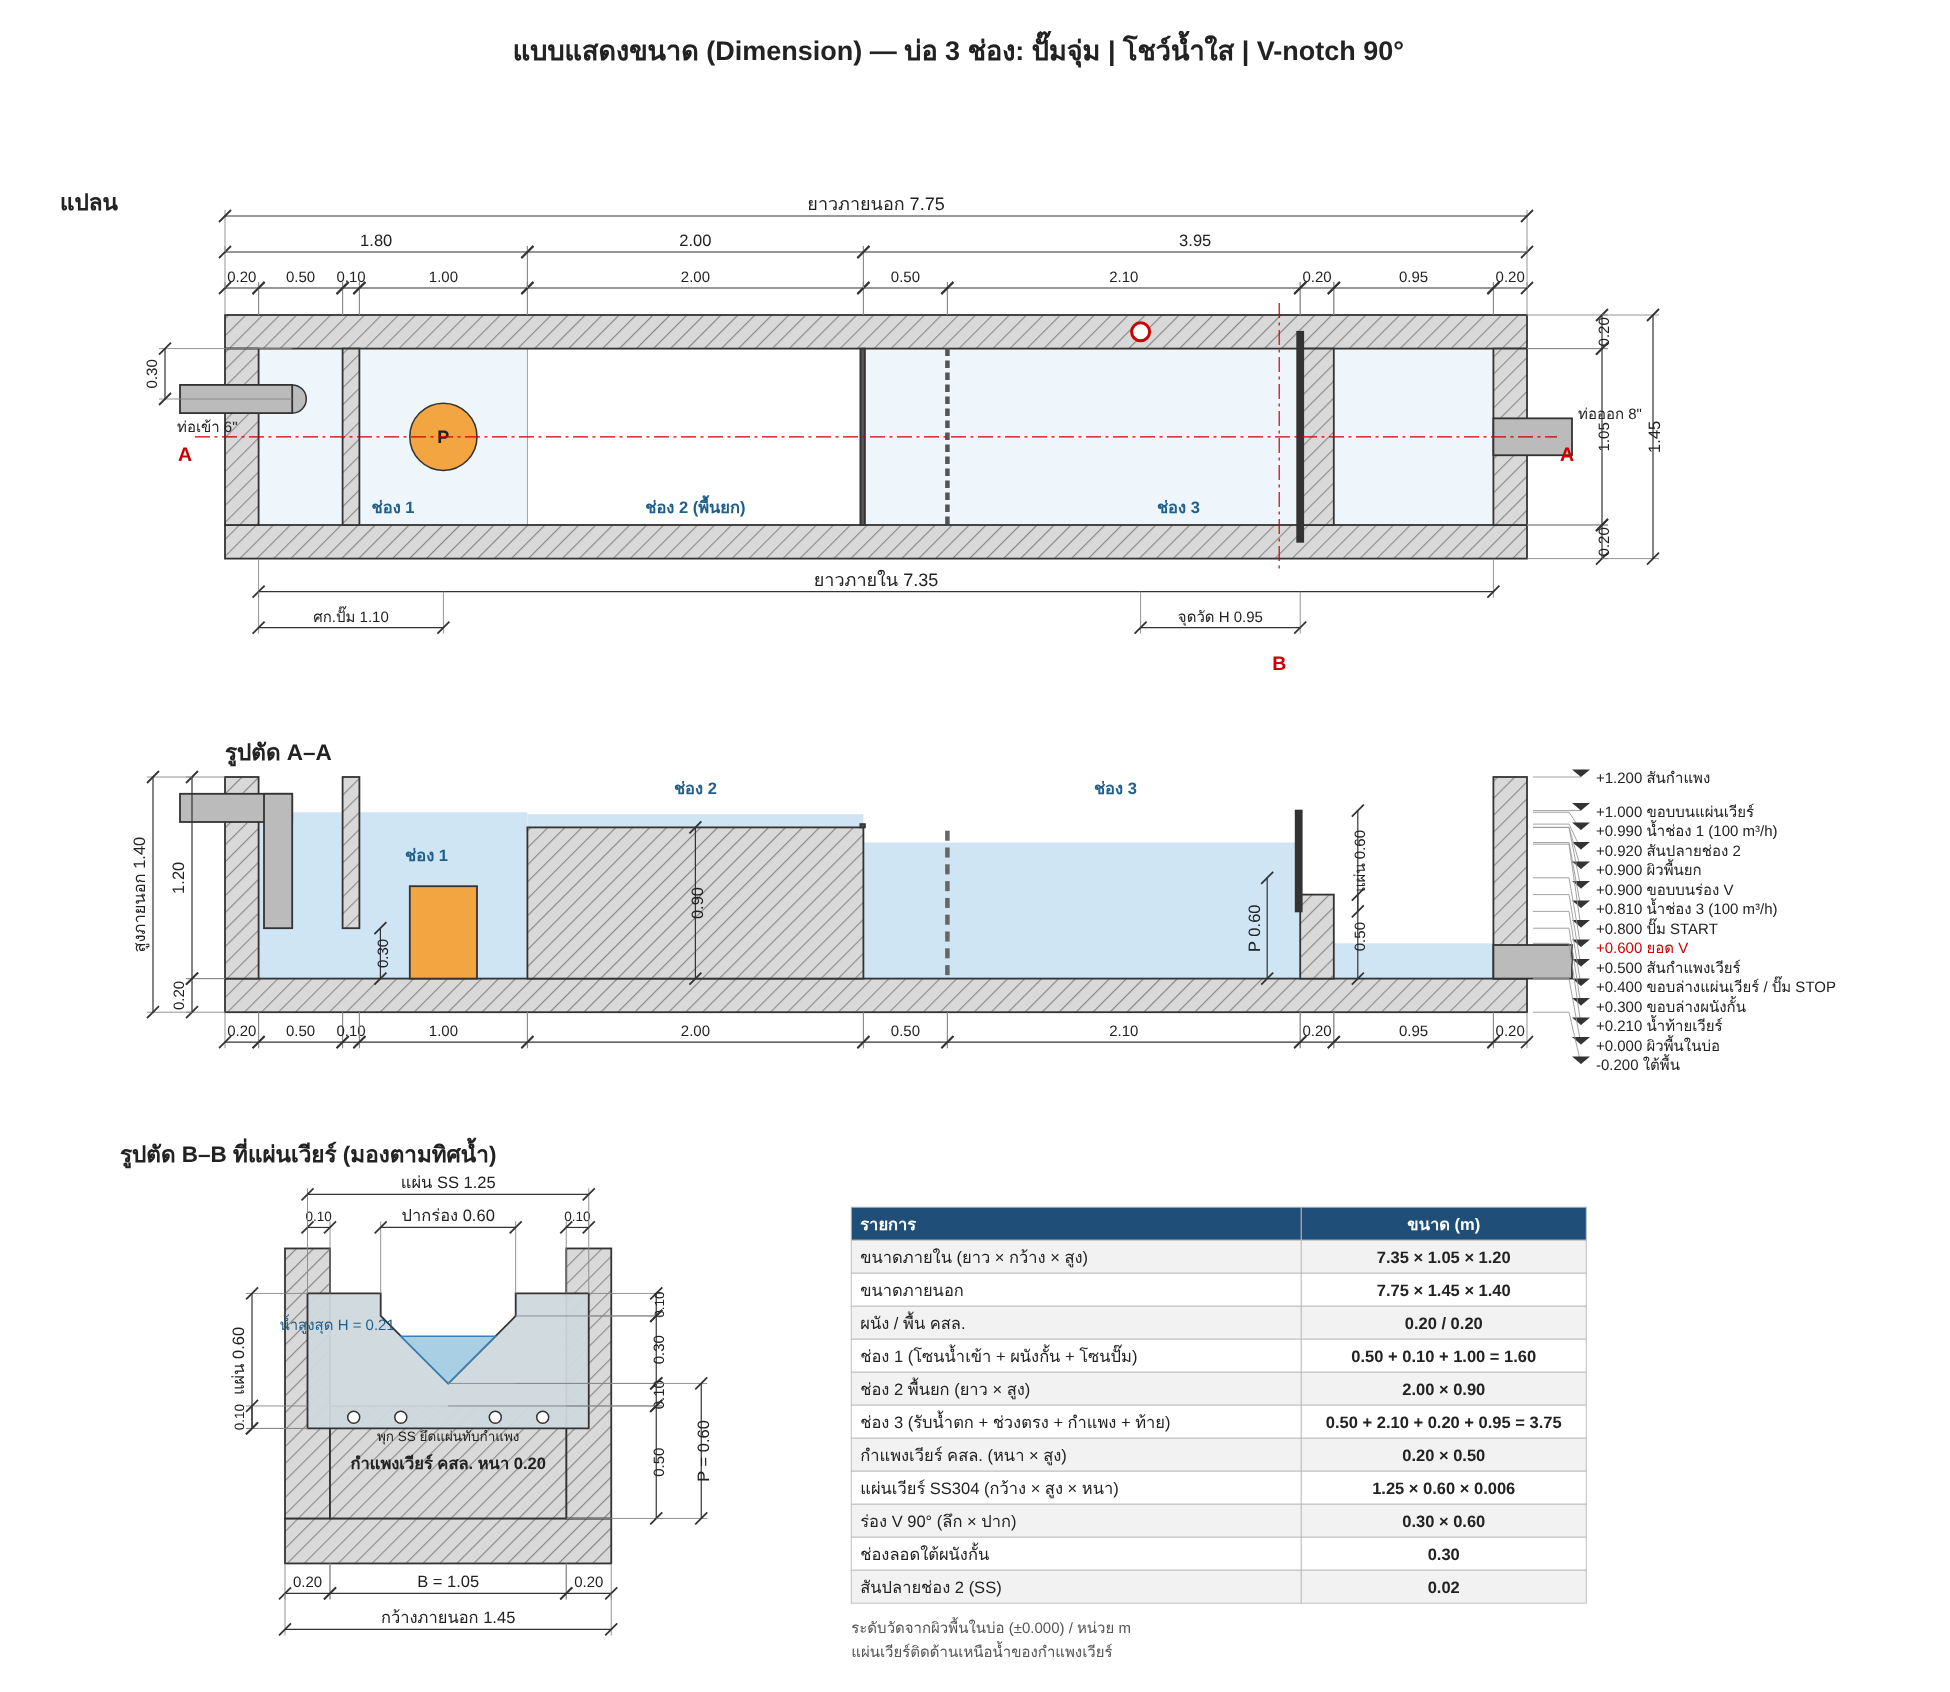
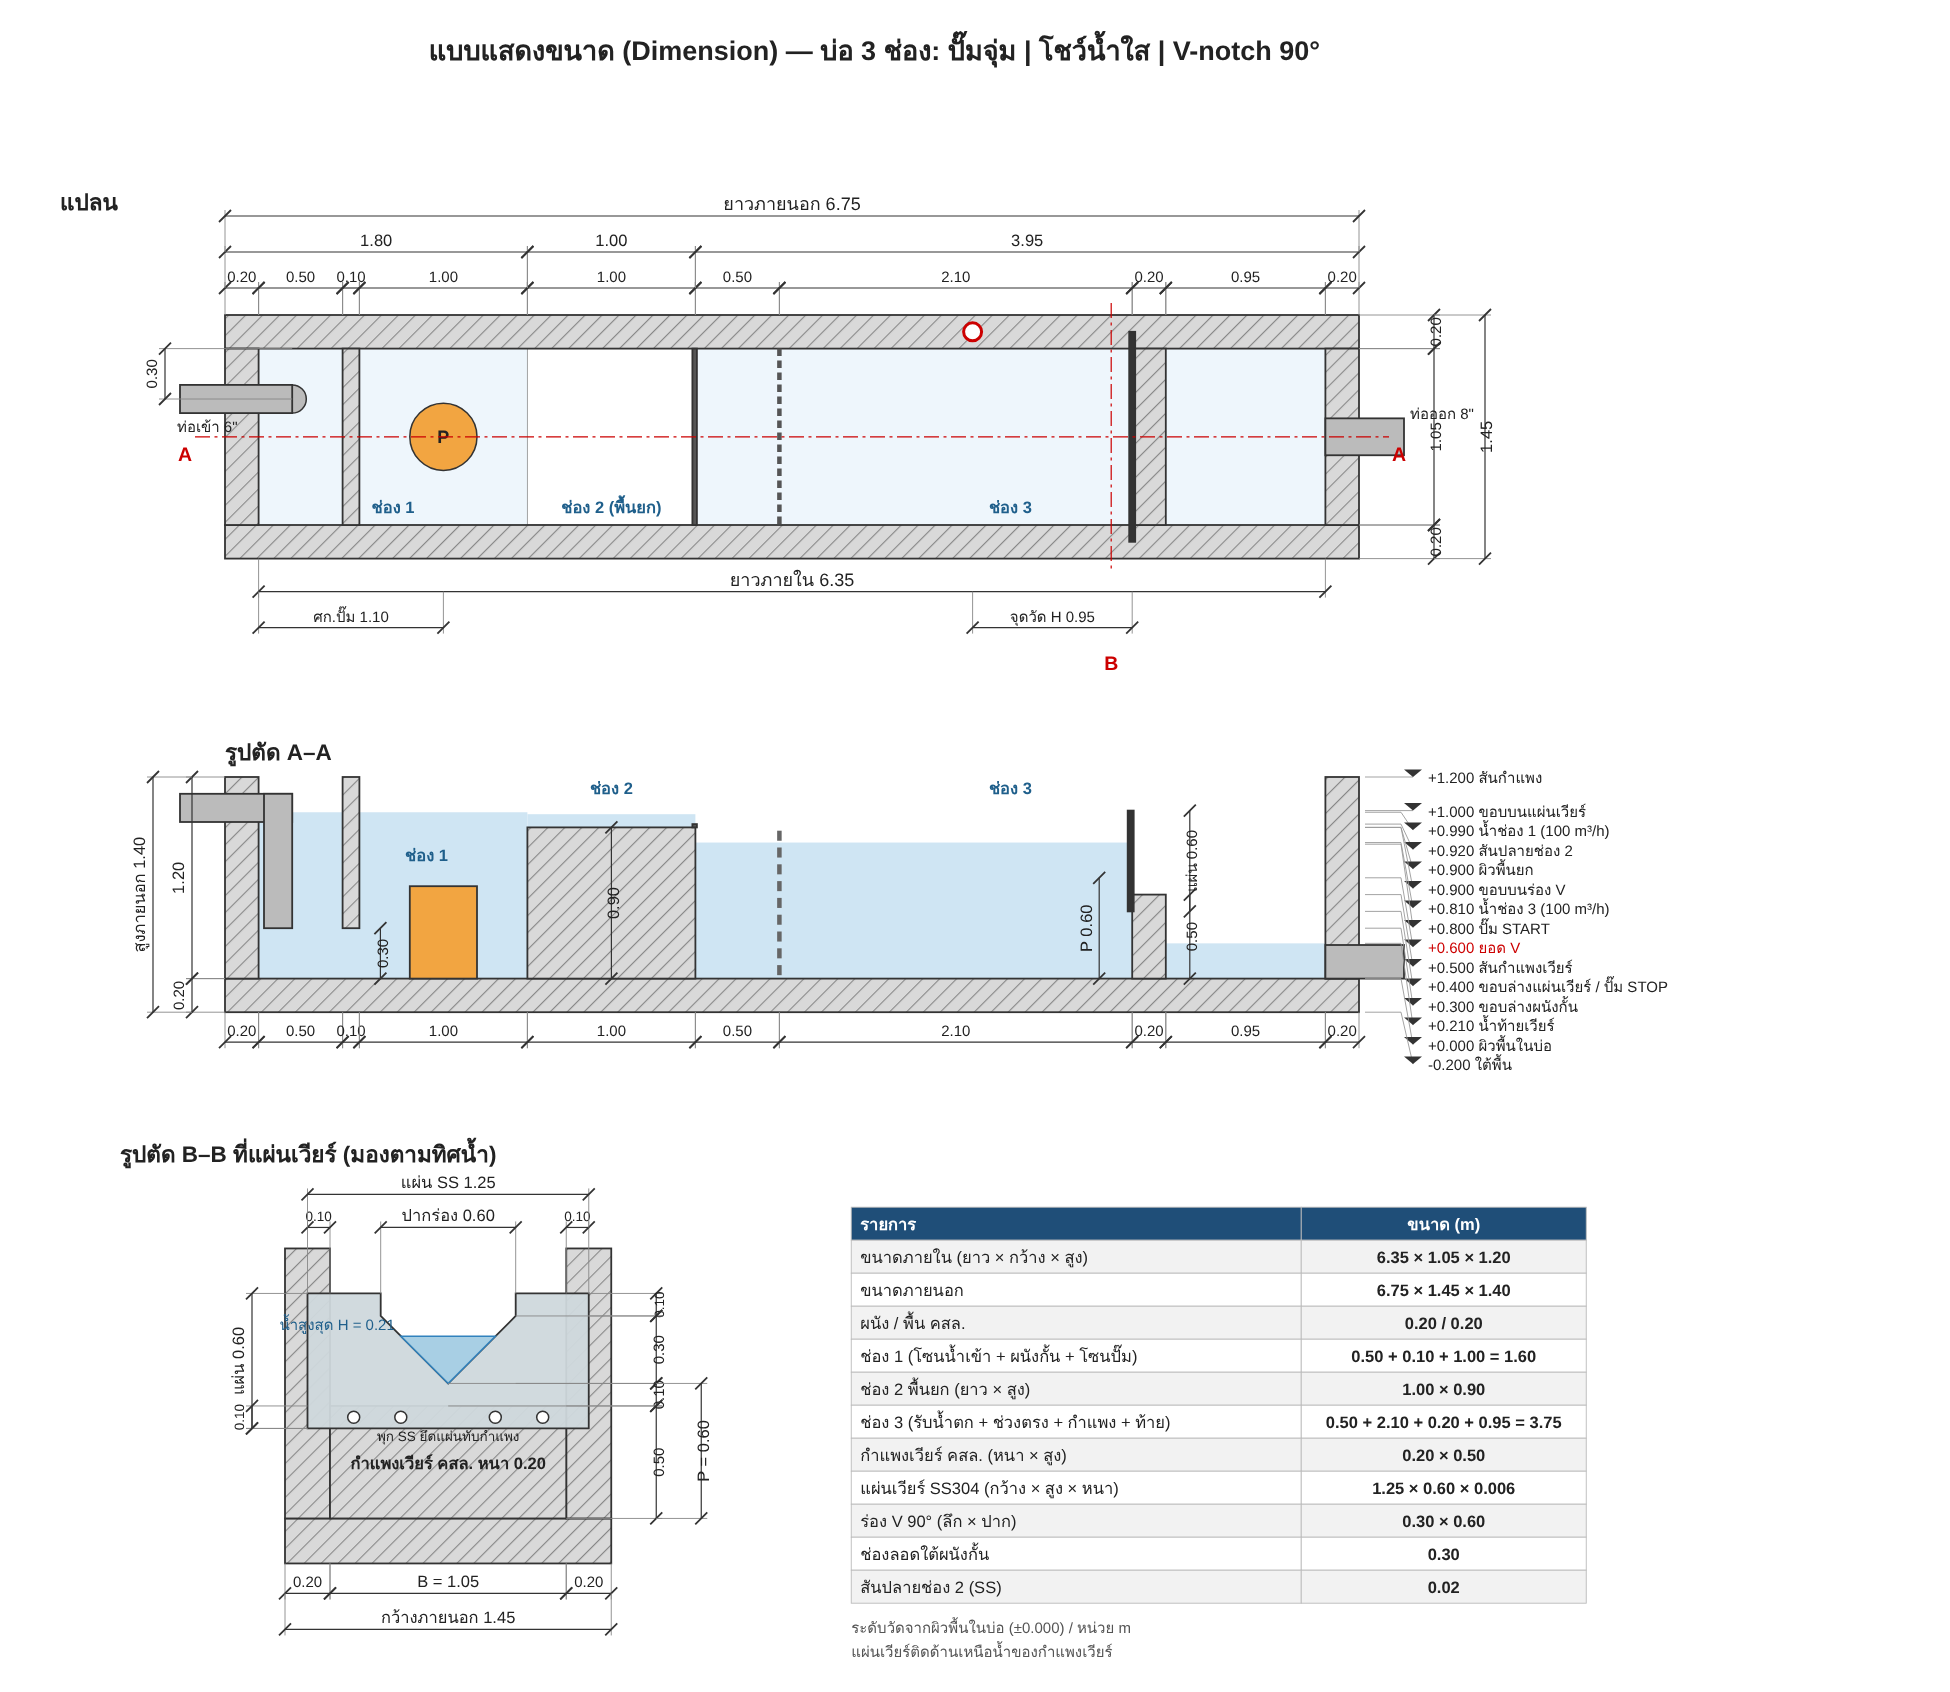
Shorten clear-water section to 1.00 m (tank 6.75 m external)
Claude-Session: https://claude.ai/code/session_01PXLmoKkgGBxM2QbbegGKn7

diff --git a/make_drawings.py b/make_drawings.py
@@ -16,15 +16,16 @@ X_BAFFLE = 0.50         # ผนังกั้นลอดใต้ หนา 0
 X_PUMP = 1.10
 X_C1_END = 1.60
 # ช่อง 2
-X_C2_END = 3.60         # ปลายพื้นยก + สันปลาย
+X_C2_END = X_C1_END + 1.00  # ปลายพื้นยก + สันปลาย (ช่อง 2 ยาว 1.00)
+X_C2_MID = (X_C1_END + X_C2_END) / 2
 Z_RAISED = 0.90
 SILL = 0.02
 # ช่อง 3
-X_PERF = 4.10           # แผ่นกันคลื่นรูพรุน
-X_WEIR = 6.20           # ผิวเหนือน้ำของกำแพงเวียร์ (ช่วงตรง 2.10)
+X_PERF = X_C2_END + 0.50  # แผ่นกันคลื่นรูพรุน (โซนรับน้ำตก 0.50)
+X_WEIR = X_PERF + 2.10  # ผิวเหนือน้ำของกำแพงเวียร์ (ช่วงตรง 2.10)
 T_WW = 0.20             # กำแพงเวียร์ คสล.
 X_TAP = X_WEIR - 0.95
-X_END = 7.35             # ท้ายเวียร์ 0.95
+X_END = X_WEIR + T_WW + 0.95  # ท้ายเวียร์ 0.95
 Z_VERTEX = 0.60
 Z_NOTCH_TOP = 0.90
 Z_WALL_TOP = 1.20
@@ -136,11 +137,11 @@ def section():
     # elevations
     for z, name, c in [(Z_WALL_TOP, "สันกำแพง", "#333"), (Z_NOTCH_TOP, "ขอบบนร่อง V", "#333"),
                        (Z_MAX, "น้ำสูงสุด", "#1f5f8b"), (Z_VERTEX, "ยอด V (h = 0)", "#c00")]:
-        b.append(line(X(4.25), Y(z), X(X_WEIR) - 4, Y(z), c, 0.8, "3 2"))
+        b.append(line(X(X_PERF + 0.15), Y(z), X(X_WEIR) - 4, Y(z), c, 0.8, "3 2"))
         b.append(text(X(X_TAP) - 6, Y(z) + (11 if z == Z_MAX else -3), f"{name} {z:+.3f}", 11, "end", c))
-    b.append(text(X(2.6), Y(Z_RAISED) + 18, f"ผิวพื้นยก {Z_RAISED:+.2f}", 11, "middle"))
-    b.append(text(X(2.6), Y(Z_C2) - 6, "ชั้นน้ำใส 5–7 cm", 12, "middle", "#1f5f8b", "bold"))
-    b.append(text(X(X_C2_END) - 6, Y(Z_RAISED + SILL) - 22, f"สันปลาย {SILL*100:.0f} cm", 10, "end"))
+    b.append(text(X(X_C2_MID), Y(Z_RAISED) + 18, f"ผิวพื้นยก {Z_RAISED:+.2f}", 11, "middle"))
+    b.append(text(X(X_C2_MID), Y(Z_C2) - 24, "ชั้นน้ำใส 5–8 cm", 12, "middle", "#1f5f8b", "bold"))
+    b.append(text(X(X_C2_END) - 6, Y(Z_RAISED) + 34, f"สันปลาย {SILL*100:.0f} cm", 10, "end"))
     b.append(text(X(0.95), Y(Z_C1) - 5, f"น้ำ {Z_C1:+.2f}", 11, "middle", "#1f5f8b"))
     b.append(text(X(X_END) - 4, Y(Z_TAIL) - 4, f"น้ำท้าย ≈ {Z_TAIL:+.2f}", 11, "end", "#1f5f8b"))
     xv = X(X_WEIR) - 14
@@ -196,10 +197,10 @@ def plan():
     b.append(text(X(X_TAP) + 10, Y(0.15) + 4, "จุดวัด h", 11, color="#c00"))
     b.append(rect(X(X_END), Y(B / 2) - D_OUT * S / 2, WALL * S + 40, D_OUT * S, fill="#bbb"))
     b.append(text(X(X_END + WALL) + 42, Y(B / 2) + 4, "ท่อออก 8\"", 12))
-    for x in (0.15, 2.0, 2.9, 4.6, 5.6, 6.6):
+    for x in (0.15, X_C2_MID - 0.15, X_PERF + 0.5, X_PERF + 1.4, X_WEIR + 0.4):
         b.append(flow_arrow(X(x), Y(0.95)))
-    b.append(text(X(2.6), Y(0.28), "พื้นยก +0.90 กรุกระเบื้องขาว", 12, "middle", "#1f5f8b", "bold"))
-    b.append(text(X(2.6), Y(0.28) + 16, "ชั้นน้ำใส 5–7 cm", 12, "middle", "#1f5f8b"))
+    b.append(text(X(X_C2_MID), Y(0.28), "พื้นยก +0.90 กรุกระเบื้องขาว", 12, "middle", "#1f5f8b", "bold"))
+    b.append(text(X(X_C2_MID), Y(0.28) + 16, "ชั้นน้ำใส 5–8 cm", 12, "middle", "#1f5f8b"))
     ya = Y(B / 2)
     b.append(line(X(-WALL) - 20, ya, X(X_END + WALL) + 20, ya, "#c00", 1, "12 4 2 4"))
     b.append(text(X(-WALL) - 22, ya + 18, "A", 14, "end", "#c00", "bold"))
@@ -341,7 +342,7 @@ def dimensions():
     yt = Y(-WALL)
     for i in range(len(xs) - 1):
         hdim(b, X(xs[i]), X(xs[i + 1]), yt - 18, f"{xs[i+1]-xs[i]:.2f}", ext=yt, size=10)
-    for x1, x2, t in [(-WALL, X_C1_END, "1.80"), (X_C1_END, X_C2_END, "2.00"), (X_C2_END, X_END + WALL, "3.95")]:
+    for x1, x2, t in [(-WALL, X_C1_END, f"{X_C1_END + WALL:.2f}"), (X_C1_END, X_C2_END, f"{X_C2_END - X_C1_END:.2f}"), (X_C2_END, X_END + WALL, f"{X_END + WALL - X_C2_END:.2f}")]:
         hdim(b, X(x1), X(x2), yt - 42, t, ext=yt - 18)
     hdim(b, X(-WALL), X(X_END + WALL), yt - 66, f"ยาวภายนอก {X_END + 2*WALL:.2f}", ext=yt - 42, size=12)
     # ด้านล่าง: ภายใน + ตำแหน่งท่อ/ปั๊ม/จุดวัด
@@ -405,7 +406,7 @@ def dimensions():
     vdim(b, Z(0), Z(-TS), X(-WALL) - 22, "0.20", ext=X(-WALL), size=10)
     vdim(b, Z(Z_WALL_TOP), Z(-TS), X(-WALL) - 48, f"สูงภายนอก {Z_WALL_TOP + TS:.2f}", ext=X(-WALL) - 22)
     vdim(b, Z(Z_GAP), Z(0), X(X_BAFFLE + 0.10) + 14, f"{Z_GAP:.2f}", side=1, size=10)
-    vdim(b, Z(Z_RAISED), Z(0), X(2.6), f"{Z_RAISED:.2f}", side=1)
+    vdim(b, Z(Z_RAISED), Z(0), X(X_C2_MID), f"{Z_RAISED:.2f}", side=1)
     vdim(b, Z(Z_VERTEX), Z(0), X(X_WEIR) - 22, f"P {Z_VERTEX:.2f}")
     vdim(b, Z(Z_WW), Z(0), X(X_WEIR + T_WW) + 16, f"{Z_WW:.2f}", side=1, size=10)
     vdim(b, Z(Z_NOTCH_TOP + 0.10), Z(Z_PB), X(X_WEIR + T_WW) + 16, f"แผ่น {Z_NOTCH_TOP + 0.10 - Z_PB:.2f}", side=1, size=10)
@@ -414,8 +415,8 @@ def dimensions():
     for i in range(len(xs) - 1):
         hdim(b, X(xs[i]), X(xs[i + 1]), yb2 + 20, f"{xs[i+1]-xs[i]:.2f}", ext=yb2, size=10)
     b.append(text(X(1.0), Z(0.70), "ช่อง 1", 11, "middle", "#1f5f8b", "bold"))
-    b.append(text(X(2.6), Z(1.10), "ช่อง 2", 11, "middle", "#1f5f8b", "bold"))
-    b.append(text(X(5.1), Z(1.10), "ช่อง 3", 11, "middle", "#1f5f8b", "bold"))
+    b.append(text(X(X_C2_MID), Z(1.10), "ช่อง 2", 11, "middle", "#1f5f8b", "bold"))
+    b.append(text(X((X_C2_END + X_END) / 2), Z(1.10), "ช่อง 3", 11, "middle", "#1f5f8b", "bold"))
 
     # ===================== รูปตัด B-B (ที่เวียร์ มองตามน้ำ) =====================
     top3 = yb2 + 120

diff --git a/make_xlsx.py b/make_xlsx.py
@@ -96,7 +96,7 @@ inp("sed", "เผื่อตะกอนใต้ยอด V", 0.05, "m", "บ
 inp("nfree", "ร่อง V สูงกว่า Hmax อย่างน้อย", 0.08, "m", "กันน้ำล้นขอบร่อง")
 inp("fclear", "สันช่อง 2 สูงกว่าน้ำช่อง 3 อย่างน้อย", 0.10, "m", "ให้ม่านน้ำตกอิสระ")
 inp("sill", "ความสูงสันปลาย ช่อง 2", 0.02, "m", "สูงขึ้น = ชั้นน้ำหนาขึ้น ผิวน้ำเรียบขึ้น")
-inp("L2", "ความยาวช่องโชว์น้ำ (ช่อง 2)", 2.00, "m", "เลือกตามความสวยงาม (ต้อง ≥ ค่าขั้นต่ำในชีต 3)")
+inp("L2", "ความยาวช่องโชว์น้ำ (ช่อง 2)", 1.00, "m", "เลือกตามความสวยงาม (ต้อง ≥ ค่าขั้นต่ำในชีต 3)")
 inp("fb", "ระยะเผื่อขอบบ่อ (freeboard)", 0.20, "m", "เหนือระดับน้ำสูงสุด")
 inp("vgap", "ความเร็วลอดใต้ผนังกั้น ไม่เกิน", 0.10, "m/s", "ช้าพอไม่ให้น้ำพุ่งต่อไปช่อง 2")
 inp("ddip", "ขนาดภายนอกท่อจุ่ม 6\"", 0.168, "m", "ท่อ 6\" OD 168 mm", "0.000")

diff --git a/README.md b/README.md
@@ -46,7 +46,7 @@
 | ช่องท้ายเวียร์ | ม่านน้ำพุ่งไกล v·√(2y/g) = 0.71 + เผื่อ 0.20 | 0.909 | **0.95** |
 | โซนรับน้ำตก ช่อง 3 | MAX(ระยะทำงาน 0.50, ระยะฟองอากาศลอย 0.27) | 0.50 | **0.50** |
 | พื้นยก ช่อง 2 | น้ำช่อง 3 (0.81) + 0.10 − สันปลาย 0.02 | 0.89 | **+0.90** |
-| ความยาวช่อง 2 | ≥ 10 × ชั้นน้ำ (0.079) = 0.79 | 0.80 | **2.00** (เลือกตามความสวยงาม) |
+| ความยาวช่อง 2 | ≥ 10 × ชั้นน้ำ (0.079) = 0.79 | 0.80 | **1.00** (เลือก) |
 | ช่องลอดใต้ผนังกั้น | Q ÷ (B × 0.10 m/s) | 0.265 | **0.30** |
 | โซนน้ำเข้า ช่อง 1 | ท่อจุ่ม 0.168 + 2 × 0.15 | 0.468 | **0.50** |
 | โซนปั๊ม ช่อง 1 | ฐานปั๊ม 0.40 + 2 × 0.30 | 1.00 | **1.00** |
@@ -55,8 +55,8 @@
 | แผ่นเวียร์ SS304 | กว้าง B + 2 × 0.10 / ขอบล่าง +0.40 ถึงขอบบน P + ลึกร่อง + 0.10 | — | **1.25 × 0.60 m** หนา 6 mm (หน่วยแรง 8 MPa ≤ 123 ✔) |
 | ผนัง/พื้น คสล. | Mu = 1.7 × γH³/6 = 4.8 kN·m/m → เหล็กตามขั้นต่ำ 600 mm²/m | — | **0.20 m**, DB12@175 |
 
-**ขนาดบ่อ:** ภายใน **7.35 × 1.05 × 1.20 m** / ภายนอก **7.75 × 1.45 × 1.40 m**
-(ช่อง 1 = 1.60, ช่อง 2 = 2.00, ช่อง 3 = 0.50 + 2.10 + 0.20 + 0.95 = 3.75)
+**ขนาดบ่อ:** ภายใน **6.35 × 1.05 × 1.20 m** / ภายนอก **6.75 × 1.45 × 1.40 m**
+(ช่อง 1 = 1.60, ช่อง 2 = 1.00, ช่อง 3 = 0.50 + 2.10 + 0.20 + 0.95 = 3.75)
 
 ค่าเกณฑ์ที่วิศวกรกำหนด เช่น เผื่อตะกอน ระยะห่างปั๊ม และ freeboard อยู่ในชีต 1 ส่วน "ข" แก้ค่าได้
 
